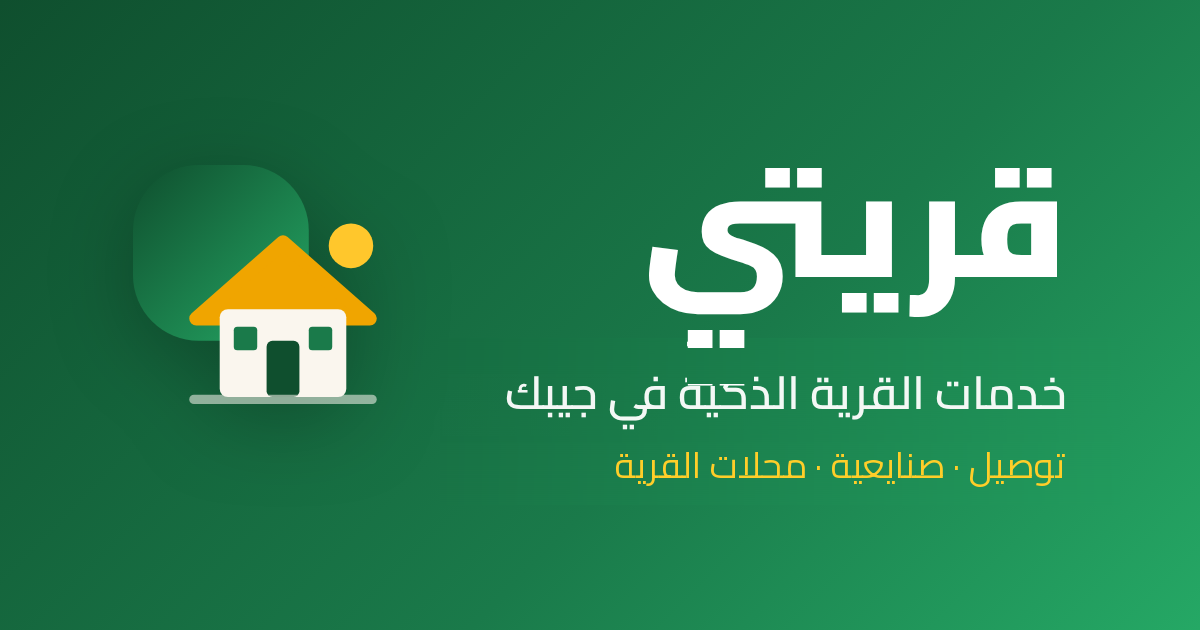
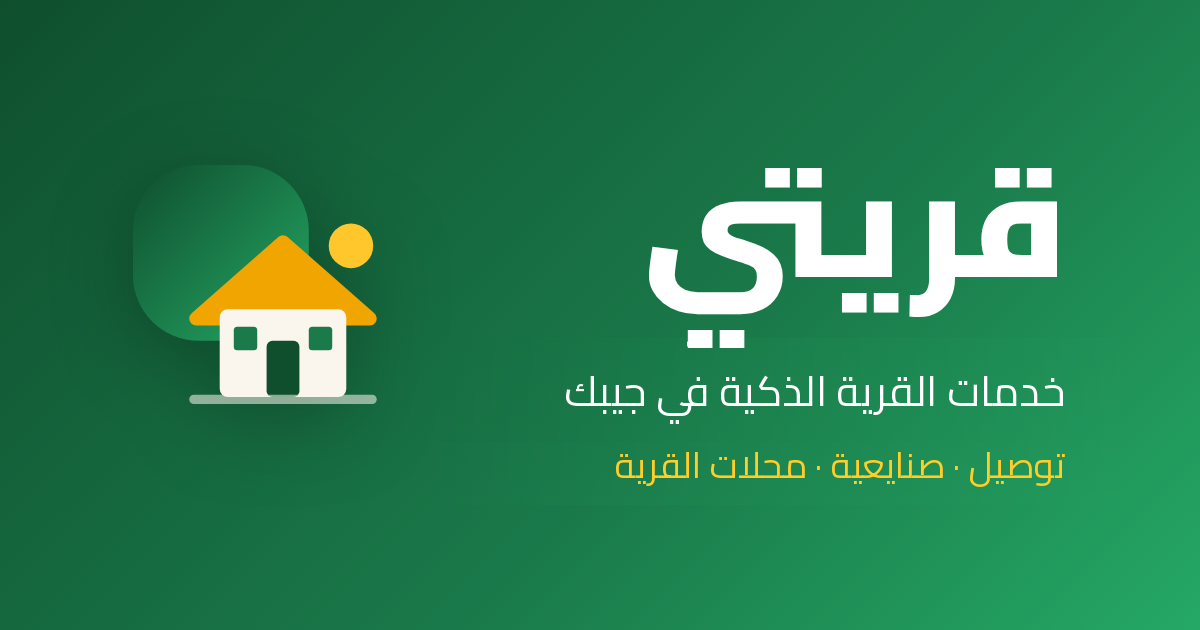
fix: clean share-card subtitle edges

Changed region(s): [[0.4317, 0.6032, 0.8942, 0.6635]]

diff --git a/index.html b/index.html
@@ -12,7 +12,7 @@
     <meta property="og:type" content="website" />
     <meta property="og:title" content="قريتي - تطبيق القرية الذكية" />
     <meta property="og:description" content="كل اللي محتاجه على بابك! خدمات وتوصيل ومحلات القرية بسرعة وبأسعار مناسبة." />
-    <meta property="og:image" content="https://qaryaty.vercel.app/og-image.png?v=20261106-spacing" />
+    <meta property="og:image" content="https://qaryaty.vercel.app/og-image.png?v=20261106-clean-spacing" />
     <meta property="og:image:width" content="1200" />
     <meta property="og:image:height" content="630" />
     <meta property="og:url" content="https://qaryaty.vercel.app/" />
@@ -21,7 +21,7 @@
 
     <!-- Twitter Meta Tags -->
     <meta name="twitter:card" content="summary_large_image" />
-    <meta name="twitter:image" content="https://qaryaty.vercel.app/og-image.png?v=20261106-spacing" />
+    <meta name="twitter:image" content="https://qaryaty.vercel.app/og-image.png?v=20261106-clean-spacing" />
     <meta name="twitter:title" content="قريتي - تطبيق القرية الذكية" />
     <meta name="twitter:description" content="خدمات القرية الذكية في جيبك. أسرع توصيل ومحلات القرية في تطبيق واحد." />
 
